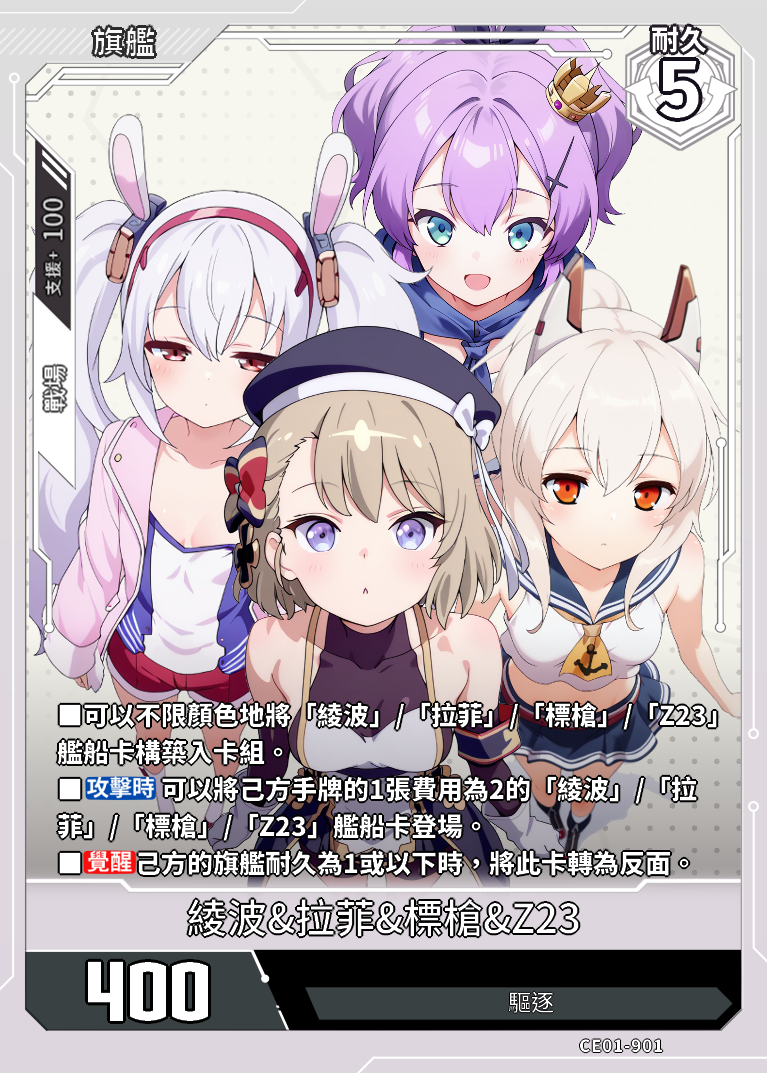
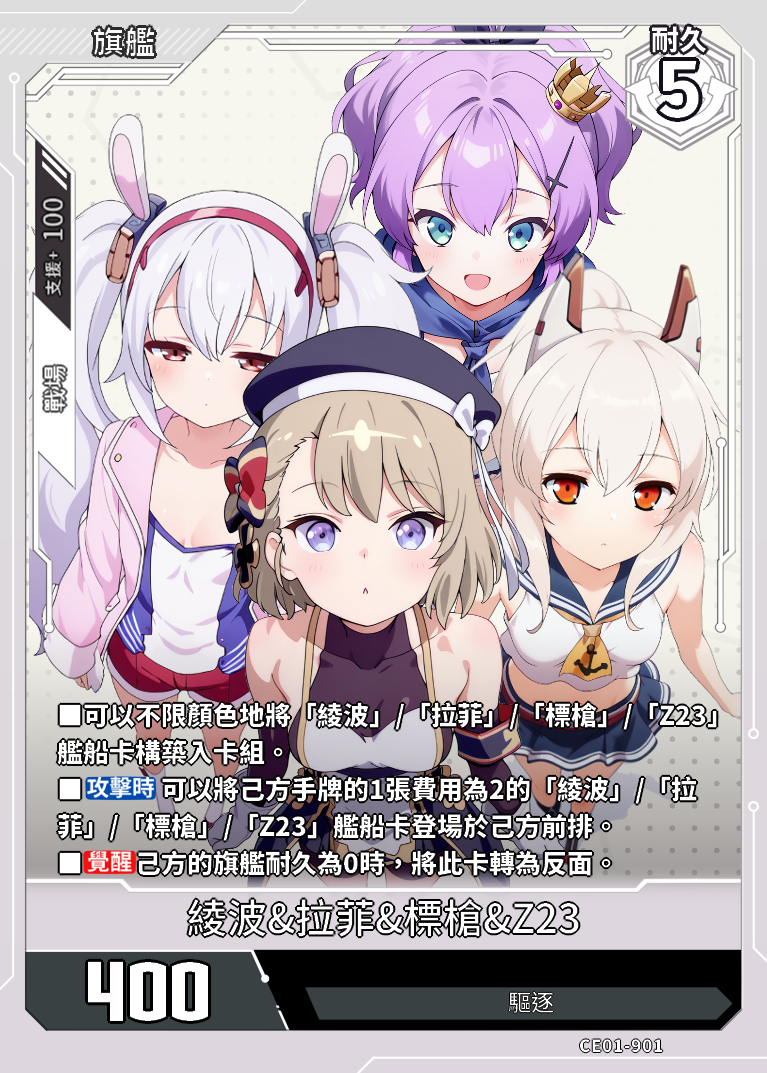
更新

Changed region(s): [[0.4498, 0.7381, 0.8996, 0.8304]]

diff --git a/data.js b/data.js
@@ -23709,7 +23709,7 @@ const cards = [
             "支援範圍": "戰場",
             "支援值": "100"
         },
-        "card_effect": "■可以不限顏色地將「綾波」/「拉菲」/「標槍」/「Z23」艦船卡構築入卡組。■【攻擊時】可以將己方手牌的1張費用為2的「綾波」/「拉菲」/「標槍」/「Z23」艦船卡登場。■【覺醒】己方的旗艦耐久為1或以下時，將此卡轉為反面。",
+        "card_effect": "■可以不限顏色地將「綾波」/「拉菲」/「標槍」/「Z23」艦船卡構築入卡組。■【攻擊時】可以將己方手牌的1張費用為2的「綾波」/「拉菲」/「標槍」/「Z23」艦船卡登場於己方前排。■【覺醒】己方的旗艦耐久為0時，將此卡轉為反面。",
         "acquisition_method": "CE01"
     },
     {
@@ -23720,7 +23720,7 @@ const cards = [
             "顏　色": "無",
             "種　類": "旗艦卡-覺醒",
             "費　用": "-",
-            "戰　力": "400",
+            "戰　力": "500",
             "陣　營": "-",
             "艦船類型": "驅逐",
             "罕　貴": "L",
@@ -23728,7 +23728,7 @@ const cards = [
             "支援範圍": "戰場",
             "支援值": "100"
         },
-        "card_effect": "■己方戰場上「綾波」、「拉菲」、「標槍」、「Z23」艦船卡每存在2種類，此卡戰力+100。",
+        "card_effect": "■當己方戰場上存在「綾波」、「拉菲」、「標槍」、「Z23」每種類各1張或以上時，此卡獲得【強擊+100】。",
         "acquisition_method": "CE01"
     },
 	{

diff --git a/topdeck.js b/topdeck.js
@@ -1,6 +1,15 @@
 // topdeck.js
 const topDecks = [
   {
+    "deck_id": "20260111-1",
+    "L_name": "綾波&拉菲&標槍&Z23",
+    "Format": "7.5.1",
+    "Description": "20260111 貓腳印-士林店 店家賽 6人 冠軍 : 綾波&拉菲&標槍&Z23 二つの蝉の屍骸と絡み合う二つの冬虫夏草,
+    "Level": "常規賽",
+    "Players": 6,
+    "Champion": 1
+  },
+  {
     "deck_id": "20260110-1",
     "L_name": "普利茅斯",
     "Format": "7.5.1",
